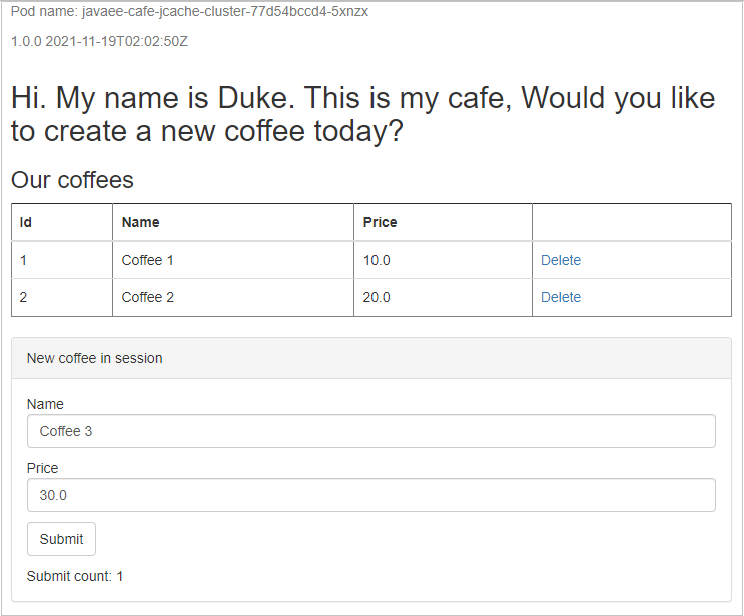
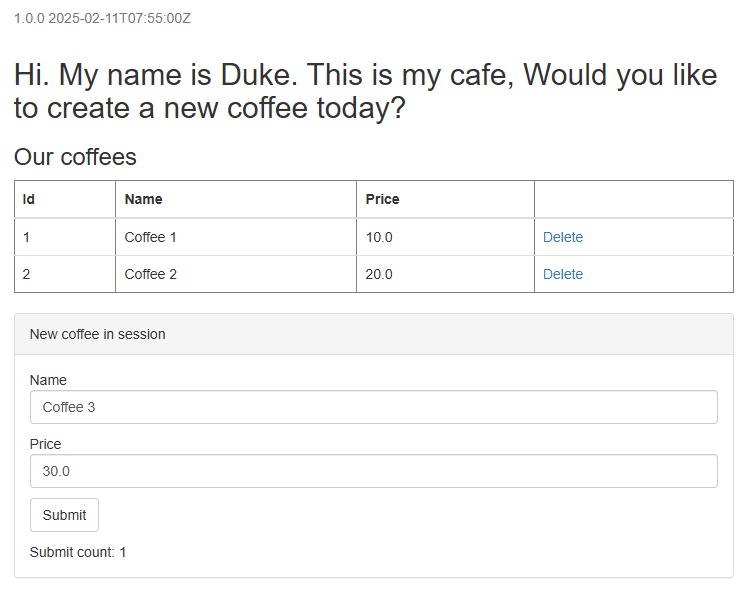
use azure managed redis

Changed region(s): [[0.0, 0.0, 1.0, 1.0]]

diff --git a/articles/java/ee/how-to-deploy-java-liberty-jcache.md b/articles/java/ee/how-to-deploy-java-liberty-jcache.md
@@ -7,7 +7,7 @@ ms.reviewer: jiangma
 ms.topic: how-to
 ms.date: 02/11/2025
 ms.custom: template-how-to, devx-track-java, devx-track-javaee, devx-track-javaee-liberty, devx-track-javaee-liberty-aks, devx-track-javaee-websphere, devx-track-azurecli, devx-track-extended-java
-#Customer intent: As a Java developer, I want to build a Java, Java EE, Jakarta EE, or MicroProfile application with JCache session enabled so that customers can store session data in the Azure Cache for Redis for session management.
+#Customer intent: As a Java developer, I want to build a Java, Java EE, Jakarta EE, or MicroProfile application with JCache session enabled so that customers can store session data in the Azure Managed Redis instance for session management.
 ---
 
 # Use Java EE JCache with Open Liberty or WebSphere Liberty
@@ -16,8 +16,8 @@ This article describes how to use Java EE JCache in a sample Open Liberty or Web
 
 In this guide, you'll:
 
-* Create an Azure Cache for Redis instance to store session data.
-* Prepare a sample Liberty application with Java EE JCache backed by Azure Cache for Redis as session cache.
+* Create an Azure Managed Redis instance to store session data.
+* Prepare a sample Liberty application with Java EE JCache backed by Azure Managed Redis instance.
 * Run the sample application locally.
 
 This article is intended to help you quickly get to deployment. Before going to production, you should explore [Tuning Liberty](https://www.ibm.com/docs/was-liberty/base?topic=tuning-liberty).
@@ -32,20 +32,31 @@ If you're interested in providing feedback or working closely on your migration 
 * Install [Maven](https://maven.apache.org/download.cgi) 3.5.0 or higher.
 * Ensure that [Git](https://git-scm.com) is installed.
 
-## Create an Azure Cache for Redis instance
+## Create an Azure Managed Redis instance
 
-[Azure Cache for Redis](/azure/azure-cache-for-redis/) backs the persistence of the `HttpSession` for a Java application running within an Open Liberty or WebSphere Liberty server. Follow the steps in this section to create an Azure Cache for Redis instance and note down its connection information. We'll use this information later.
+[Azure Managed Redis](/azure/azure-cache-for-redis/managed-redis/managed-redis-overview) provides an in-memory data store based on the [Redis Enterprise](https://redis.io/about/redis-enterprise/) software. Follow the steps in this section to create an Azure Managed Redis instance and note down its connection information. You use this information later.
 
-1. Follow the steps in [Quickstart: Use Azure Cache for Redis in Java](/azure/azure-cache-for-redis/cache-java-get-started) up to, but not including **Understanding the Java sample**.
+1. Follow the steps in [Quickstart: Create an Azure Managed Redis Instance](/azure/azure-cache-for-redis/quickstart-create-managed-redis) to create an Azure Managed Redis instance.
 
-   > [!NOTE]
-   > In step 7 of section [Create an Azure Cache for Redis](/azure/azure-cache-for-redis/cache-java-get-started#create-an-azure-cache-for-redis), select **Access Keys Authentication** for the **Authentication** option on the **Advanced** pane for this guide. For optimal security, we recommend that you use Microsoft Entra ID with managed identities to authorize requests against your cache, if possible. Authorization by using Microsoft Entra ID and managed identities provides superior security and ease of use over shared access key authorization. For more information about using managed identities with your cache, see [Use Microsoft Entra ID for cache authentication](/azure/azure-cache-for-redis/cache-azure-active-directory-for-authentication).
+   1. At step 4 of section [Create a Redis instance](/azure/azure-cache-for-redis/quickstart-create-managed-redis#create-a-redis-instance), select **Public Endpoint** for the **Connectivity** option in this guide for simplicity. For production, you should consider using **Private Endpoint** for better security.
 
-1. Copy **Host name** and **Primary access key** for your Azure Cache for Redis instance, and then run the following commands to add environment variables:
+   1. At step 5 of section [Create a Redis instance](/azure/azure-cache-for-redis/quickstart-create-managed-redis#create-a-redis-instance):
+   
+      * Enable **Access Keys Authentication** for the **Authentication** in this guide for simplicity. For optimal security, you're recommended to use Microsoft Entra ID with managed identities to authorize requests against your cache, if possible. Authorization by using Microsoft Entra ID and managed identities provides superior security and ease of use over shared access key authorization. For more information about using managed identities with your cache, see [Use Microsoft Entra ID for cache authentication](/azure/azure-cache-for-redis/cache-azure-active-directory-for-authentication).
+
+      * Set **Clustering policy** to **Enterprise** for a nonclustered cache, which works for this guide where single node configuration is used. For more information, see [Clustering on Enterprise](/azure/azure-cache-for-redis/cache-best-practices-enterprise-tiers#clustering-on-enterprise).
+
+1. After the deployment completes, select **Go to resource** if you're on the **Deoplyment** page. Otherwise, navigate to the Azure portal, find and select your Azure Managed Redis instance.
+
+1. On the **Overview** page, note down the **Endpoint** value. You use this value as the `REDIS_CACHE_ENDPOINT` environment variable later.
+
+1. Select **Settings** > **Authentication**. Select **Access keys** and note down the **Primary** value. You use this value as the `REDIS_CACHE_KEY` environment variable later.
+
+1. Run the following command to export the environment variables `REDIS_CACHE_ENDPOINT` and `REDIS_CACHE_KEY`:
 
    ```bash
-   export REDISCACHEHOSTNAME=<YOUR_HOST_NAME>
-   export REDISCACHEKEY=<YOUR_PRIMARY_ACCESS_KEY>
+   export REDIS_CACHE_ENDPOINT=<your-redis-cache-endpoint>
+   export REDIS_CACHE_KEY=<your-primary-access-key>
    ```
 
 ## Prepare the sample application
@@ -55,7 +66,7 @@ Use the following commands to clone the sample code for this guide. The sample i
 ```bash
 git clone https://github.com/Azure-Samples/open-liberty-on-aks.git
 cd open-liberty-on-aks
-git checkout 20240909
+git checkout 20250211
 cd java-app-jcache
 ```
 
@@ -87,13 +98,14 @@ The **java**, **resources**, and **webapp** directories contain the source code 
 
 In the **liberty/config** directory, the **server.xml** file is used to configure session cache for the Open Liberty and WebSphere Liberty cluster.
 
-In the **redisson** directory, the **redisson-config.yaml** file is used to configure the connection of the Azure Cache for Redis instance.
+In the **redisson** directory, the **redisson-config.yaml** file is used to configure the connection of the Azure Managed Redis instance.
 
 > [!NOTE]
-> This artile focuses on configuring the JCache session persistence for the Open Liberty and WebSphere Liberty application using Azure Cache for Redis, it simplifies the instructions to run the sample application locally. 
-> However, if you want to deploy the application to an containerized environment, such as Azure Kubernetes Service (AKS), you can refer to the **docker** and **aks** directories:
-> * The **docker** directory contains two Dockerfiles. **Dockerfile** is used to build an image with Open Liberty and **Dockerfile-wlp** is used to build an image with WebSphere Liberty.
-> * The **aks** directory contains the deployment file **openlibertyapplication.yaml** to deploy the application image.
+> This article focuses on configuring the JCache session persistence for the Open Liberty and WebSphere Liberty application using the Azure Managed Redis instance, it simplifies the instructions to run the sample application locally. 
+> However, if you want to deploy the application to an containerized environment, such as Azure Kubernetes Service (AKS), you can refer to the following general steps:
+> * Reference the **docker** directory that contains two Dockerfiles. **Dockerfile** is used to build an image with Open Liberty and **Dockerfile-wlp** is used to build an image with WebSphere Liberty.
+> * Create a secret in the AKS cluster that contains the content of the **redisson-config.yaml** file populated with the values of the environment variables `REDIS_CACHE_ENDPOINT` and `REDIS_CACHE_KEY`.
+> * Reference the **aks** directory that contains the deployment file **openlibertyapplication.yaml** to deploy the application image.
 
 ## Run the sample application locally
 
@@ -101,21 +113,21 @@ Use the following steps to build and run your sample application locally. These 
 
 1. Verify the current working directory is **java-app-jcache** in your local clone.
 1. Run `mvn clean package` to package the application.
-1. Run `mvn -Predisson validate` to copy the Redisson configuration file to the specified location. This step inserts the values of the environment variables `REDISCACHEHOSTNAME` and `REDISCACHEKEY` into the **redisson-config.yaml** file, which is referenced by the **server.xml** file.
+1. Run `mvn -Predisson validate` to copy the Redisson configuration file to the specified location. This step also nserts the values of the environment variables `REDIS_CACHE_ENDPOINT` and `REDIS_CACHE_KEY` into the **redisson-config.yaml** file, which is referenced by the **server.xml** file.
 1. Run `mvn liberty:dev` to start the application. If the application is successful started, you should see `The defaultServer server is ready to run a smarter planet.` in the command output.
    You should see output similar to the following if the Redis connection is successful.
 
    ```output
-   [INFO] [err] [Default Executor-thread-5] INFO org.redisson.Version - Redisson 3.23.4
-   [INFO] [err] [redisson-netty-2-7] INFO org.redisson.connection.pool.MasterPubSubConnectionPool - 1 connections initialized for redacted.redis.cache.windows.net/20.25.90.239:6380
-   [INFO] [err] [redisson-netty-2-20] INFO org.redisson.connection.pool.MasterConnectionPool - 24 connections initialized for redacted.redis.cache.windows.net/20.25.90.239:6380
+   [INFO] [err] [Default Executor-thread-3] INFO org.redisson.Version - Redisson 3.23.4
+   [INFO] [err] [redisson-netty-2-7] INFO org.redisson.connection.pool.MasterPubSubConnectionPool - 1 connections initialized for redacted.<region>.redis.azure.net/<ip_address>:10000
+   [INFO] [err] [redisson-netty-2-20] INFO org.redisson.connection.pool.MasterConnectionPool - 24 connections initialized for redacted.<region>.redis.azure.net/<ip_address>:10000
    ```
 
 ### Test the application
 
-Open a web browser to `http://localhost:9080/` and you should see the application home page. If the page isn't loaded correctly, that's because the app is starting. You can wait for a while and refresh the page later. You should see the pod name of your application replicas displayed at the top-left of the page (**javaee-cafe-jcache-cluster-77d54bccd4-5xnzx** for this case).
+Open a web browser to `http://localhost:9080/` and you should see the application home page.
 
-:::image type="content" source="media/how-to-deploy-java-liberty-jcache/deploy-succeeded.png" alt-text="Screenshot of Java liberty application successfully deployed on A K S.":::
+:::image type="content" source="media/how-to-deploy-java-liberty-jcache/run-succeeded-locally.png" alt-text="Screenshot of Java liberty application running successfully.":::
 
 In the form **New coffee in session**, set values for fields **Name** and **Price**, and then select **Submit**. After a few seconds,  you'll see **Submit count: 1** displayed at the left bottom of the page.
 
@@ -125,11 +137,33 @@ To demonstrate that the session cache is persisted and can be retrieved in the s
 
 Then, refresh the application home page. You should see the same data displayed in the section **New coffee in session**.
 
-Finally, use the following steps to demonstrate that the session data is persisted in the Azure Cache for Redis instance. You can issue commands to your Azure Cache for Redis instance using the [Redis Console](/azure/azure-cache-for-redis/cache-configure#redis-console).
+Optionally, you can use the [redis-cli command-line tool](https://redis.io/docs/connect/cli/) to demonstrate that the session data is persisted in the Azure Managed Redis instance. In this guide, you use [Azure Cloud Shell](/azure/cloud-shell/overview) where the `redis-cli` tool is preinstalled. If you want to use the `redis-cli` tool on your local machine, you can install it by following the instructions in the document [Use the Redis command-line tool with Azure Managed Redis](/azure/azure-cache-for-redis/managed-redis/managed-redis-how-to-redis-cli-tool).
 
-1. Find your Azure Cache for Redis instance from the Azure portal.
-1. Select **Console** to open Redis console.
-1. Run the following commands to view the session data:
+1. Launch the Azure Cloud Shell from the Azure portal. For more information, see [Get started with Azure Cloud Shell](/azure/cloud-shell/get-started/classic?tabs=azurecli). 
+   * Select **Bash** as the shell environment.
+   * Set your subscrition that is used to create the Azure Managed Redis instance.
+
+1. Run the similar command in Cloud Shell console with the values of the Redis endpoint and the primary access key you noted down earlier:
+
+   ```bash
+   REDIS_CACHE_ENDPOINT=<your-redis-cache-endpoint>
+   REDIS_CACHE_KEY=<your-primary-access-key>
+   ```
+
+1. Run the following command to retrieve the hostname and port of the Azure Managed Redis instance:
+
+   ```bash
+   REDIS_CACHE_HOSTNAME=$(echo $REDIS_CACHE_ENDPOINT | cut -d':' -f1)
+   REDIS_CACHE_PORT=$(echo $REDIS_CACHE_ENDPOINT | cut -d':' -f2)
+   ```
+
+1. Run the following command to connect to the Azure Managed Redis instance:
+
+   ```bash
+   redis-cli -p ${REDIS_CACHE_PORT} -h ${REDIS_CACHE_HOSTNAME} -a ${REDIS_CACHE_KEY} --tls
+   ```
+
+1. Once the connection is established, you can issue commands to your Azure Managed Redis instance. Run the following commands to view the session data:
 
    ```text
    scan 0 count 1000 match '*'
@@ -137,16 +171,16 @@ Finally, use the following steps to demonstrate that the session data is persist
    hgetall "com.ibm.ws.session.attr.default_host%2F"
    ```
 
-1. Search for **cafe.model.entity.Coffee[id=1, name=Coffee 3, price=30.0]** from the web page, which is the coffee you created and persisted in the Azure Cache for Redis instance.
+1. You should see **cafe.model.entity.Coffee[id=1, name=Coffee 3, price=30.0]** from the output, that is the coffee you created and persisted in the Azure Managed Redis instance.
 
 ## Clean up resources
 
-To avoid Azure charges, you should clean up unnecessary resources. When the Azure Cache for Redis instance is no longer needed, use the [`az group delete`](/cli/azure/group#az_group_delete) command to remove the resource group and all resources within it.
+To avoid Azure charges, you should clean up unnecessary resources. When the Azure Managed Redis instance is no longer needed, use the [`az group delete`](/cli/azure/group#az_group_delete) command to remove the resource group and all resources within it.
 
-To delete the Azure Cache for Redis instance, find its resource group name and run the following command:
+To delete the Azure Managed Redis instance, find its resource group name and run the following command:
 
 ```azurecli
-az group delete --name <AZURE_CACHE_FOR_REDIS_RESOURCE_GROUP_NAME> --yes --no-wait
+az group delete --name <RESOURCE_GROUP_NAME> --yes --no-wait
 ```
 
 ## Next steps
